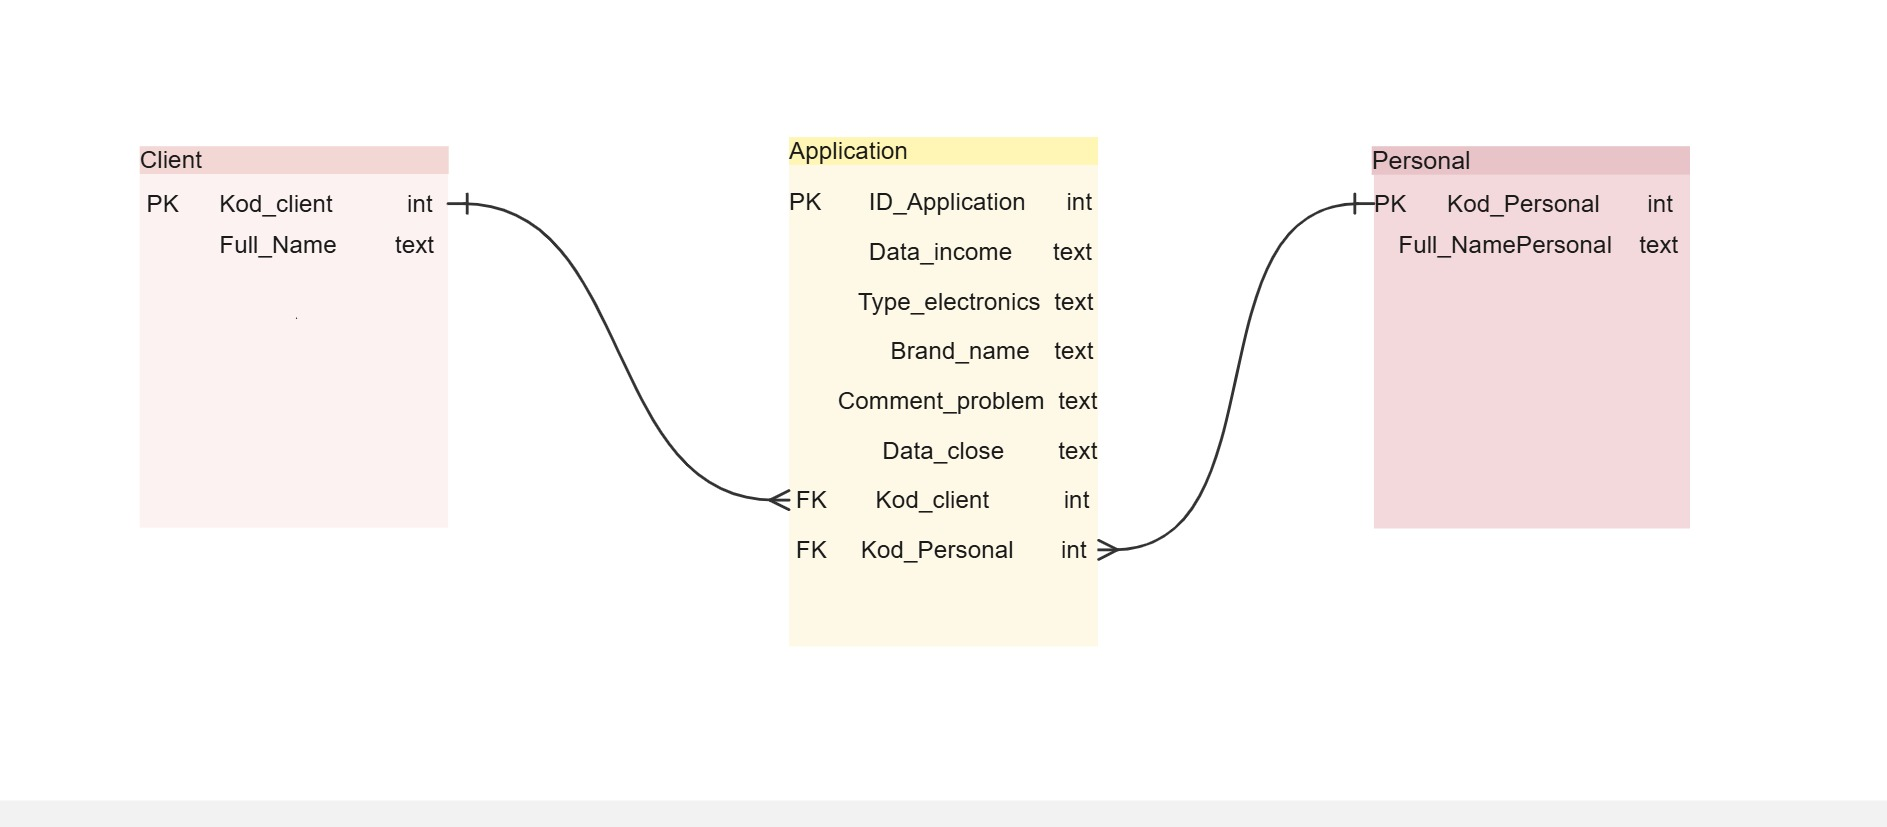
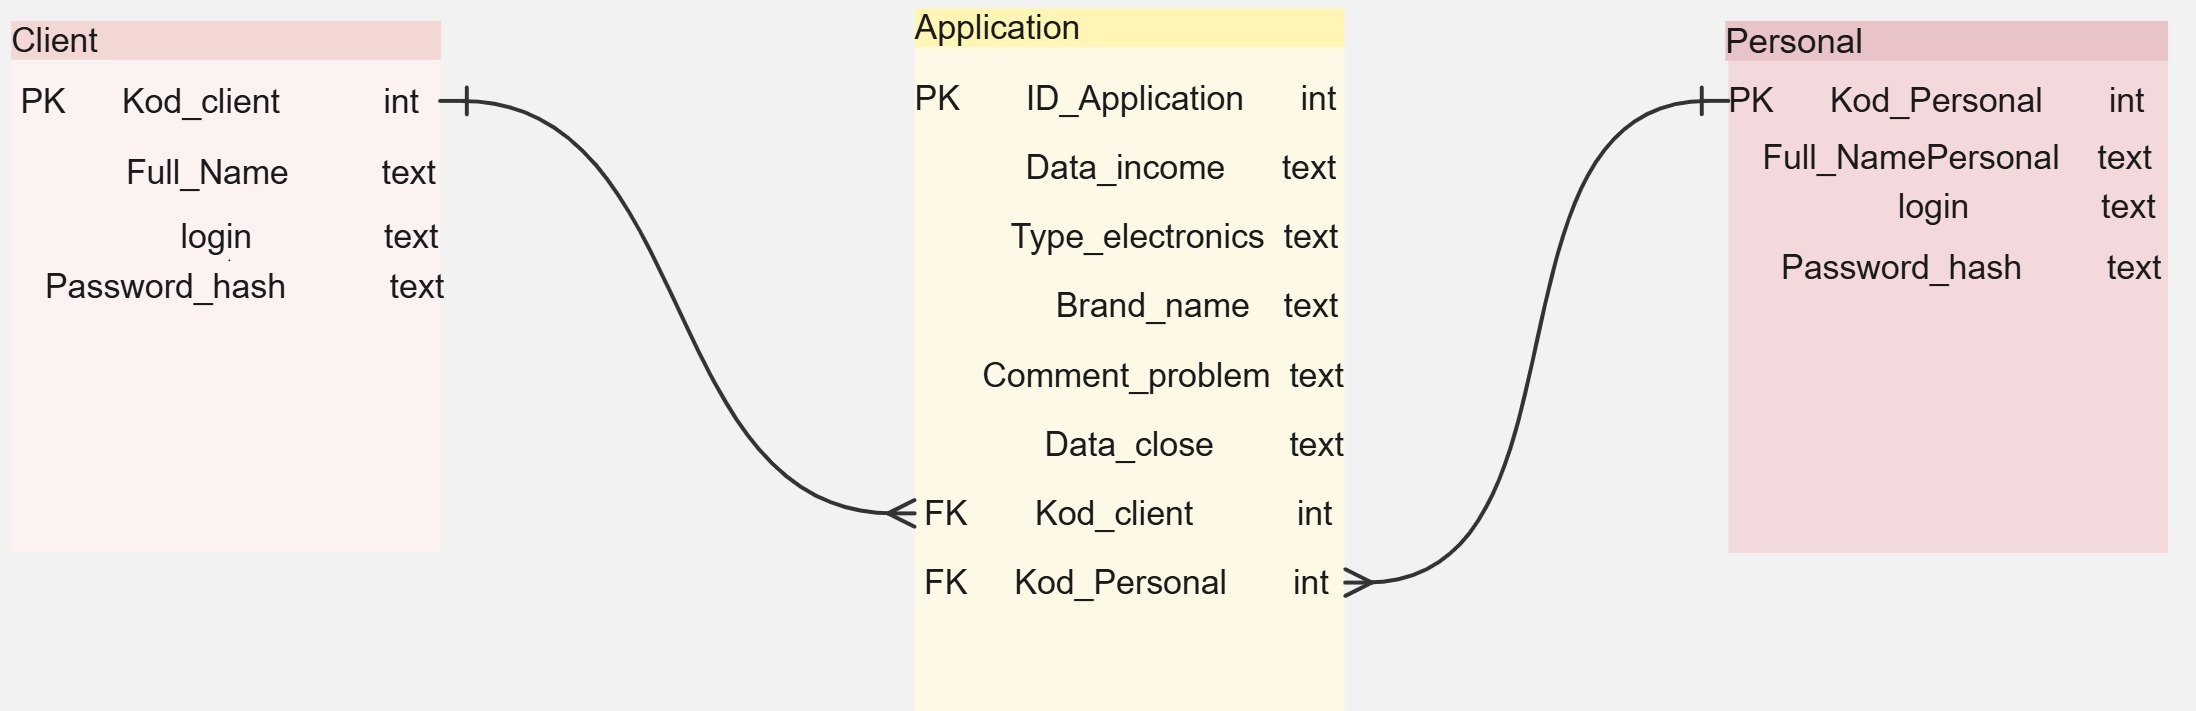
редактирование базы  данных

diff --git a/src/lab2GIT/main.py b/src/lab2GIT/main.py
@@ -1,5 +1,5 @@
 import sqlite3
-from random import choice
+
 
 
 def get_connection(): # Получение конекшина к БД
@@ -36,7 +36,7 @@ def init_db():
     db.close()
 
 
-def incert_client(FULL_NAME):
+def incert_client(FULL_NAME):# функция добавления клиента
     db = get_connection()
     cursor = db.cursor()
     cursor.execute('''INSERT INTO Client (Full_Name)
@@ -44,7 +44,7 @@ def incert_client(FULL_NAME):
     db.commit()
     db.close()
 
-def Show_client():
+def Show_client():# вывод всех клиентов
     db = get_connection()
     cursor = db.cursor()
     cursor.execute('''SELECT * FROM Client''')
@@ -120,8 +120,7 @@ while (True):
         case 4:
             print("Программа закрыта ")
             break
-        case _:
-            print("eerefe")
+
 
 
 
